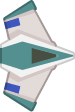
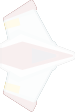
Fiksa immunityblinks

diff --git a/src/model/player/Player.java b/src/model/player/Player.java
@@ -10,6 +10,7 @@ import java.util.Timer;
 import java.util.TimerTask;
 
 import java.util.ArrayList;
+import javafx.scene.image.Image;
 
 public class Player extends Entity {
 
@@ -21,7 +22,6 @@ public class Player extends Entity {
     private boolean immunity = false;
     private int immunityTimer;
     private int blinkCounter;
-    private Timer blinkTimer;
 
     private PlayerMovement move = new PlayerMovement();
 
@@ -95,7 +95,7 @@ public class Player extends Entity {
         this.immunity = true;
         super.takeDamage();
         System.out.println("Immunity starts");
-        // immunityBlink();
+        immunityBlink();
         Timer timer = new Timer();
         timer.schedule(new TimerTask() {
             
@@ -106,7 +106,6 @@ public class Player extends Entity {
                     immunityTimer = 0;
                     immunity = false;
                     System.out.println("Immunity ends");
-                    // immunityBlinkStop();
                     this.cancel();
                 }
             }
@@ -120,34 +119,33 @@ public class Player extends Entity {
     
     public void immunityBlink() {
         // Blinkeanimasjon for immunityframes
+        Timer blinkTimer = new Timer();
         blinkTimer.schedule(new TimerTask() {
             
             @Override
             public void run() {
-                blinkCounter++;
+                blinkCounter++;           
                 switch(blinkCounter) {
                     case 5:
-                        inst.setSprite(Sprite.PLAYERBLINK);
+                        inst.getSprite().setImage(new Image("assets/image/playerShip3_red.png"));
                         break;
                     case 10:
-                        inst.setSprite(Sprite.PLAYERBLINK2);
+                        inst.getSprite().setImage(new Image("assets/image/playerShip4_red.png"));
                         break;
                     case 15:
-                        inst.setSprite(Sprite.PLAYERBLINK);
+                        inst.getSprite().setImage(new Image("assets/image/playerShip3_red.png"));
                         break;
                     case 20:
-                        inst.setSprite(Sprite.PLAYER);
+                        inst.getSprite().setImage(new Image("assets/image/playerShip2_red.png"));
                         blinkCounter = 0;
                         break;
                 }
+                if (immunityTimer == 9) {
+                    this.cancel();
+                    inst.getSprite().setImage(new Image("assets/image/playerShip2_red.png"));
+                }                     
             }
-        }, 0, 10);        
-    }
-    
-    public void immunityBlinkStop() {
-        // Stopper blinkeanimasjon for immunityframes
-        inst.setSprite(Sprite.PLAYER);
-        blinkTimer.cancel();
+        }, 0, 20);        
     }
 
 }

diff --git a/src/assets/java/Sprite.java b/src/assets/java/Sprite.java
@@ -6,9 +6,7 @@ import javafx.scene.image.ImageView;
 public enum Sprite {
     PLAYER("assets/image/playerShip2_red.png"),
     ASTROID("assets/image/enemyBlue1.png"),
-    ENEMY_SHIP("assets/image/enemyBlue1.png"),
-    PLAYERBLINK("assets/image/playerShip3_red.png"),
-    PLAYERBLINK2("assets/image/playerShip4_red.png");
+    ENEMY_SHIP("assets/image/enemyBlue1.png");
     
 
     Image img;
